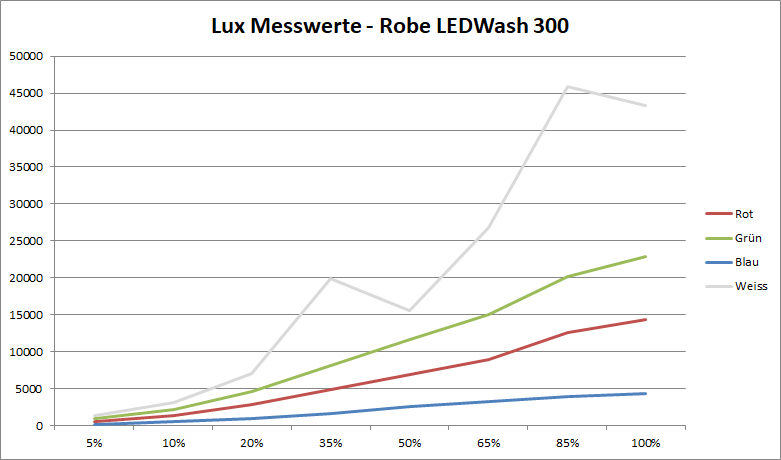
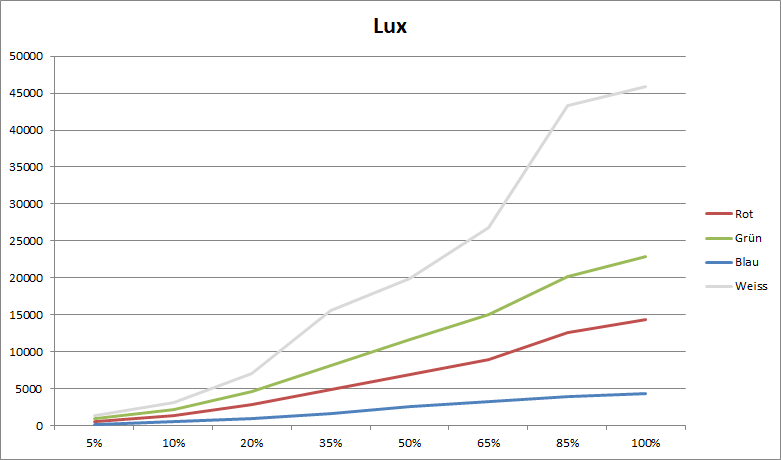
Corrected Y curve for the LED Wash

diff --git a/thesis/theDoc.TeX b/thesis/theDoc.TeX
@@ -1949,11 +1949,11 @@ Messungen mit dem Spektrometer UPRtek LED 350. Gemessen am 15.10.2019.\\
         5\%   & 513   & 942   & 199  & 1384 \\\hline
         10\%  & 1384  & 2238  & 498  & 3126 \\\hline
         20\%  & 2811  & 4553  & 928  & 7058 \\\hline
-        35\%  & 4879  & 8090  & 1677 & 19883\\\hline
-        50\%  & 6910  & 11667 & 2650 & 15640\\\hline
+        35\%  & 4879  & 8090  & 1677 & 15640\\\hline
+        50\%  & 6910  & 11667 & 2650 & 19883\\\hline
         65\%  & 8927  & 14985 & 3249 & 26787\\\hline
-        85\%  & 12662 & 20220 & 3962 & 45830\\\hline
-        100\% & 14407 & 22931 & 4383 & 43309\\\hline
+        85\%  & 12662 & 20220 & 3962 & 43309\\\hline
+        100\% & 14407 & 22931 & 4383 & 45830\\\hline
     \end{tabularx}
     \caption{Gemessene Luminanz Werte des LEDWash300} \label{table:luxLedWash}
 \end{table}
